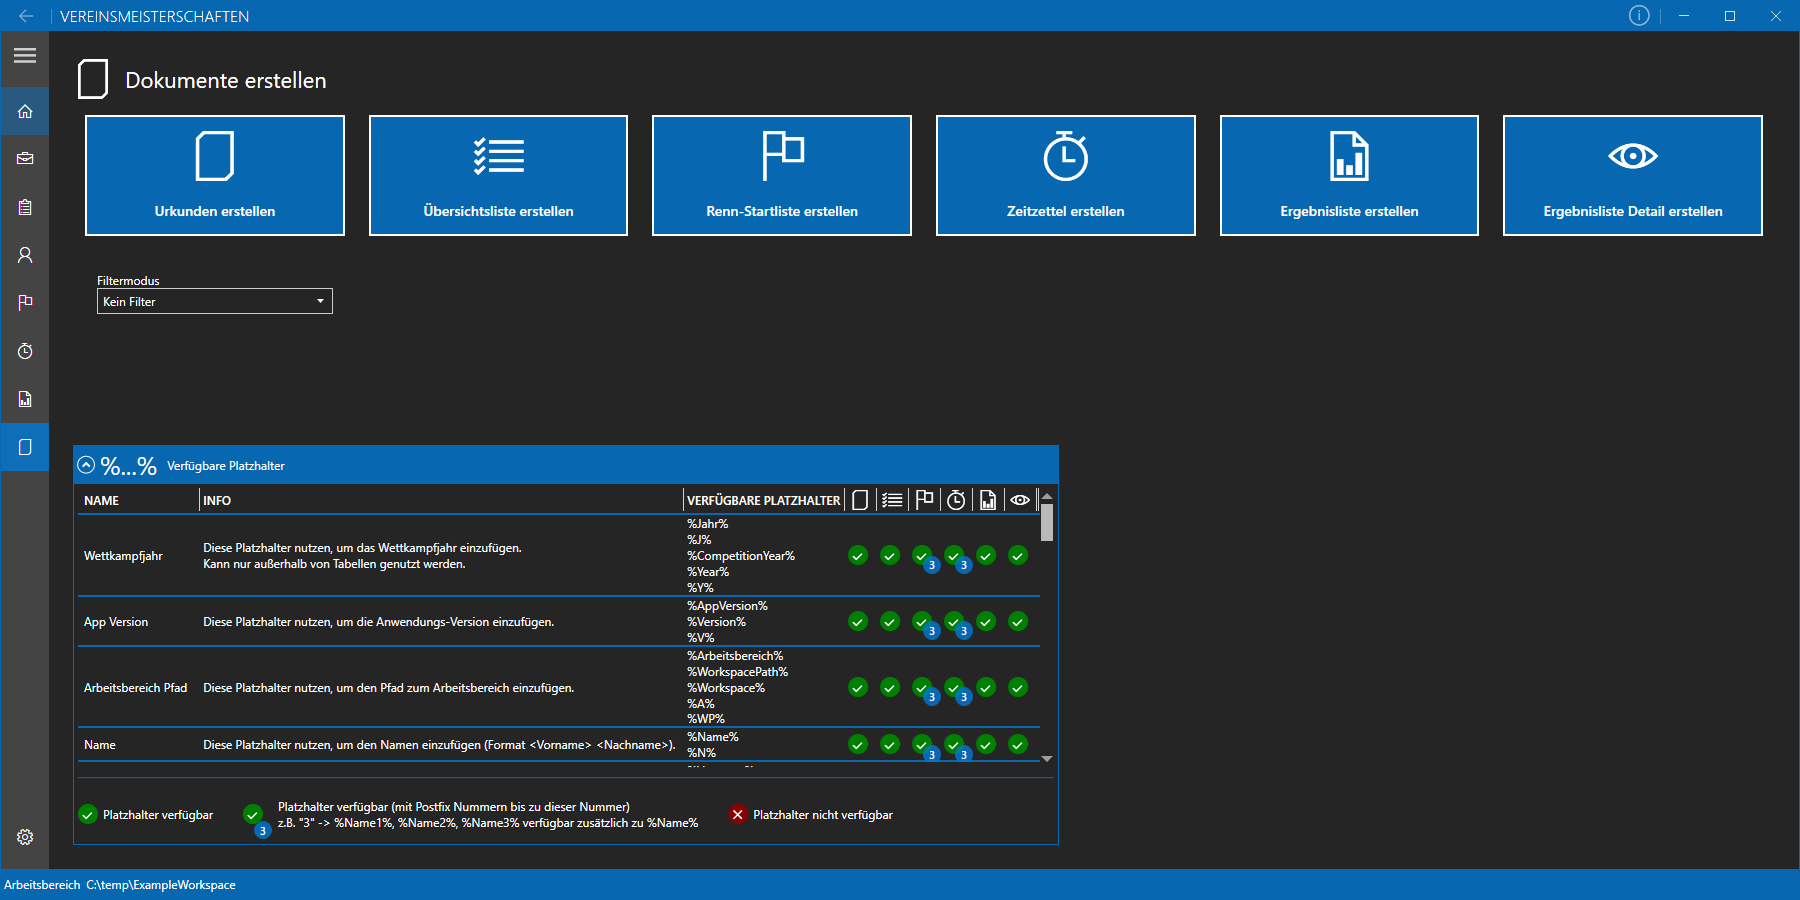
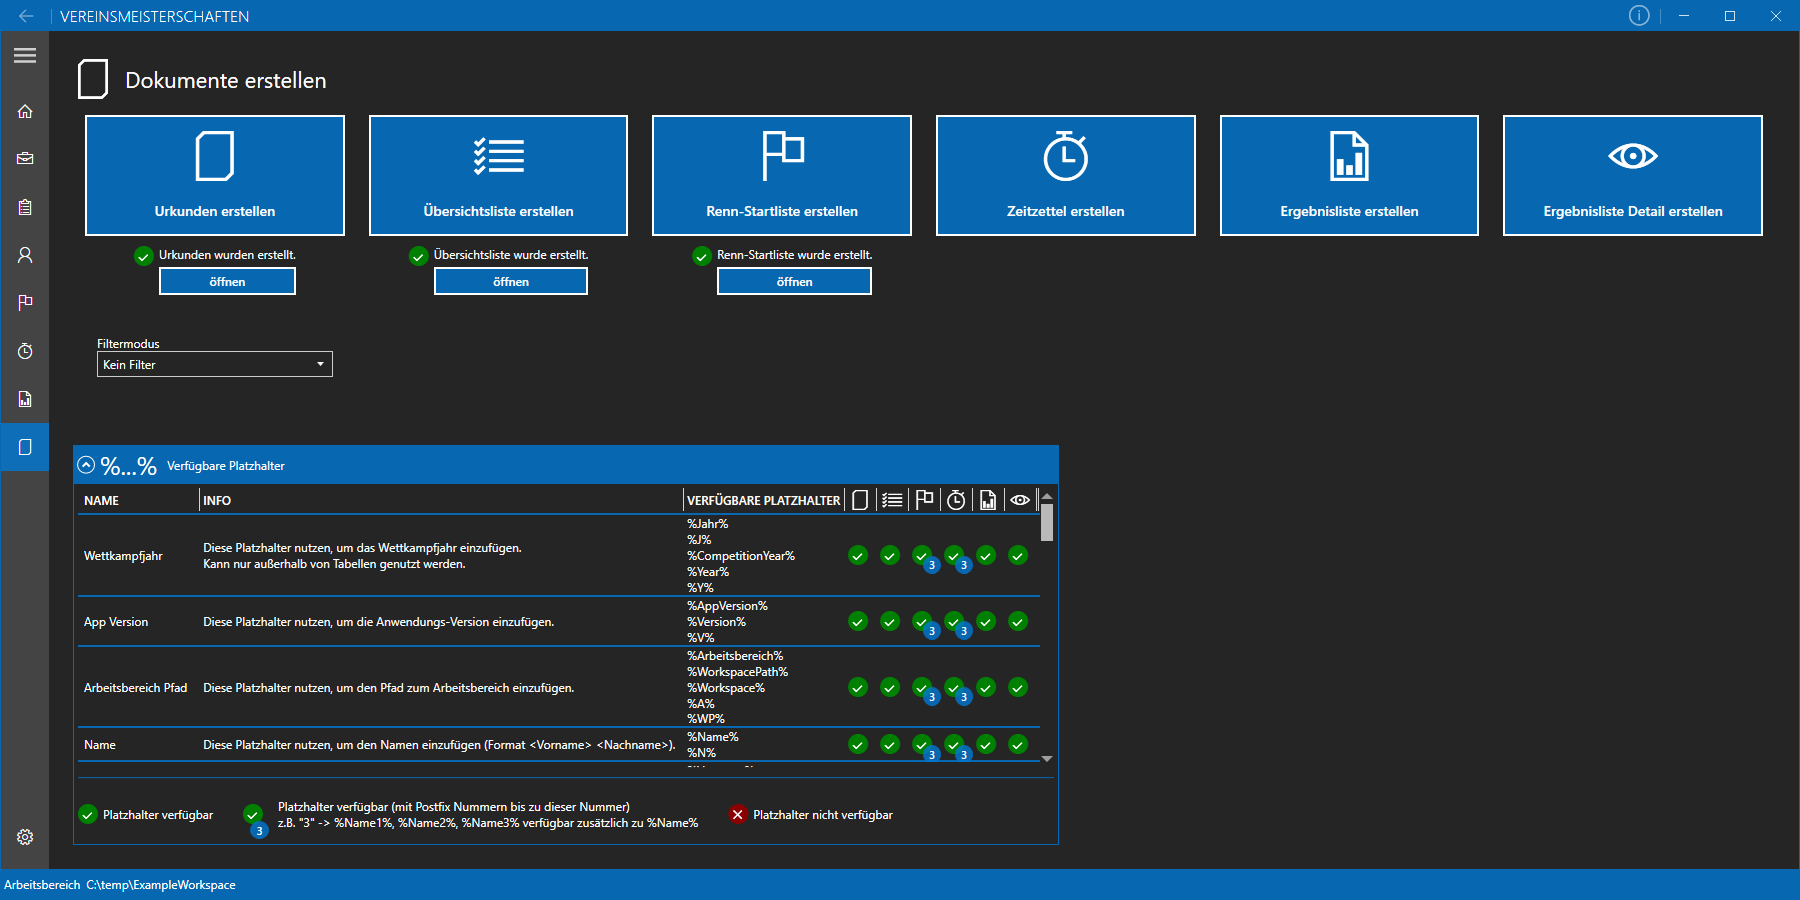
Added button to CreateDocumentsPage to open the last created document in the default application

diff --git a/Vereinsmeisterschaften/Views/CreateDocumentsPage.xaml b/Vereinsmeisterschaften/Views/CreateDocumentsPage.xaml
@@ -59,6 +59,7 @@
                                          IsSuccessful="{Binding IsDocumentCreationSuccessful[Certificates]}"
                                          IsDataAvailable="{Binding IsDocumentDataAvailable[Certificates]}"
                                          IsTemplateAvailable="{Binding IsDocumentTemplateAvailable[Certificates]}"
+                                         LastCreatedDocumentPath="{Binding LastDocumentFilePaths[Certificates]}"
                                          ButtonText="{x:Static properties:Resources.CreateCertificatesString}"
                                          SuccessText="{x:Static properties:Resources.CreateCertificatesResultString}"
                                          ButtonIconGlyph="&#xE8A5;"
@@ -131,6 +132,7 @@
                                          IsSuccessful="{Binding IsDocumentCreationSuccessful[OverviewList]}"
                                          IsDataAvailable="{Binding IsDocumentDataAvailable[OverviewList]}"
                                          IsTemplateAvailable="{Binding IsDocumentTemplateAvailable[OverviewList]}"
+                                         LastCreatedDocumentPath="{Binding LastDocumentFilePaths[OverviewList]}"
                                          ButtonText="{x:Static properties:Resources.CreateOverviewListString}"
                                          SuccessText="{x:Static properties:Resources.CreateOverviewListResultString}"
                                          ButtonIconGlyph="&#xE9D5;"
@@ -145,6 +147,7 @@
                                          IsSuccessful="{Binding IsDocumentCreationSuccessful[RaceStartList]}"
                                          IsDataAvailable="{Binding IsDocumentDataAvailable[RaceStartList]}"
                                          IsTemplateAvailable="{Binding IsDocumentTemplateAvailable[RaceStartList]}"
+                                         LastCreatedDocumentPath="{Binding LastDocumentFilePaths[RaceStartList]}"
                                          ButtonText="{x:Static properties:Resources.CreateRaceStartListString}"
                                          SuccessText="{x:Static properties:Resources.CreateRaceStartListResultString}"
                                          ButtonIconGlyph="&#xE7C1;"
@@ -159,6 +162,7 @@
                                  IsSuccessful="{Binding IsDocumentCreationSuccessful[TimeForms]}"
                                  IsDataAvailable="{Binding IsDocumentDataAvailable[TimeForms]}"
                                  IsTemplateAvailable="{Binding IsDocumentTemplateAvailable[TimeForms]}"
+                                 LastCreatedDocumentPath="{Binding LastDocumentFilePaths[TimeForms]}"
                                  ButtonText="{x:Static properties:Resources.CreateTimeFormsString}"
                                  SuccessText="{x:Static properties:Resources.CreateTimeFormsResultString}"
                                  ButtonIconGlyph="&#xE916;"
@@ -173,6 +177,7 @@
                                          IsSuccessful="{Binding IsDocumentCreationSuccessful[ResultList]}"
                                          IsDataAvailable="{Binding IsDocumentDataAvailable[ResultList]}"
                                          IsTemplateAvailable="{Binding IsDocumentTemplateAvailable[ResultList]}"
+                                         LastCreatedDocumentPath="{Binding LastDocumentFilePaths[ResultList]}"
                                          ButtonText="{x:Static properties:Resources.CreateResultListString}"
                                          SuccessText="{x:Static properties:Resources.CreateResultListResultString}"
                                          ButtonIconGlyph="&#xE9F9;"
@@ -187,6 +192,7 @@
                                         IsSuccessful="{Binding IsDocumentCreationSuccessful[ResultListDetail]}"
                                         IsDataAvailable="{Binding IsDocumentDataAvailable[ResultListDetail]}"
                                         IsTemplateAvailable="{Binding IsDocumentTemplateAvailable[ResultListDetail]}"
+                                        LastCreatedDocumentPath="{Binding LastDocumentFilePaths[ResultListDetail]}"
                                         ButtonText="{x:Static properties:Resources.CreateResultListDetailString}"
                                         SuccessText="{x:Static properties:Resources.CreateResultListDetailResultString}"
                                         ButtonIconGlyph="&#xE7B3;"

diff --git a/Vereinsmeisterschaften/Views/CreateDocumentUserControl.xaml b/Vereinsmeisterschaften/Views/CreateDocumentUserControl.xaml
@@ -57,7 +57,7 @@
                     </Style.Triggers>
                 </Style>
             </StackPanel.Style>
-            <ContentControl Template="{StaticResource ControlTemplateOkIndicator}"/>
+            <ContentControl Template="{StaticResource ControlTemplateOkIndicator}" VerticalAlignment="Top"/>
             <StackPanel Margin="5,0,0,0"
                         Orientation="Vertical">
                 <TextBlock VerticalAlignment="Center"
@@ -76,6 +76,7 @@
                         </Style>
                     </TextBlock.Style>
                 </TextBlock>
+                <Button x:Name="btn_openDocument" Margin="0,5" Content="{x:Static properties:Resources.OpenString}" Style="{StaticResource MahApps.Styles.Button.Square.Accent}" Click="btn_openDocument_Click" ToolTip="{x:Static properties:Tooltips.TooltipOpenDocument}"/>
             </StackPanel>
         </StackPanel>
 

diff --git a/Vereinsmeisterschaften/ViewModels/CreateDocumentsViewModel.cs b/Vereinsmeisterschaften/ViewModels/CreateDocumentsViewModel.cs
@@ -9,6 +9,10 @@ using Vereinsmeisterschaften.Core.Contracts.Services;
 using Vereinsmeisterschaften.Core.Models;
 using Vereinsmeisterschaften.Core.Documents;
 using Vereinsmeisterschaften.Properties;
+using Vereinsmeisterschaften.Core.Settings;
+using System.IO;
+using Vereinsmeisterschaften.Core.Helpers;
+using Vereinsmeisterschaften.Core.Services;
 
 namespace Vereinsmeisterschaften.ViewModels;
 
@@ -36,6 +40,11 @@ public class CreateDocumentsViewModel : ObservableObject, INavigationAware
     /// Dictionary to hold the state of whether the template file is available for document creation for each <see cref="DocumentCreationTypes"/> type.
     /// </summary>
     public Dictionary<DocumentCreationTypes, bool> IsDocumentTemplateAvailable { get; } = new Dictionary<DocumentCreationTypes, bool>();
+
+    /// <summary>
+    /// Dictionary to hold the file paths of the last created documents for each <see cref="DocumentCreationTypes"/> type.
+    /// </summary>
+    public Dictionary<DocumentCreationTypes, string> LastDocumentFilePaths { get; } = new Dictionary<DocumentCreationTypes, string>();
 
     private void changeDocumentCreationRunningState(DocumentCreationTypes documentType, bool isRunning)
     {
@@ -77,6 +86,16 @@ public class CreateDocumentsViewModel : ObservableObject, INavigationAware
         }
     }
 
+    private void changeLastDocumentFilePath(DocumentCreationTypes documentType, string lastDocumentFilePaths)
+    {
+        if (LastDocumentFilePaths.ContainsKey(documentType))
+        {
+            LastDocumentFilePaths[documentType] = lastDocumentFilePaths;
+            OnPropertyChanged(nameof(LastDocumentFilePaths));
+            ((RelayCommand<DocumentCreationTypes>)CreateDocumentCommand).NotifyCanExecuteChanged();
+        }
+    }
+
     /// <summary>
     /// Indicates whether at leas one document creation process is currently running (either certificates or overview list or race start list).
     /// </summary>
@@ -86,7 +105,7 @@ public class CreateDocumentsViewModel : ObservableObject, INavigationAware
 
     #region Create Certificates Properties
 
-    private int _numberCreatedCertificates = 0;
+    private int _numberCreatedCertificates = -1;
     /// <summary>
     /// Number of created certificates during the last creation process.
     /// </summary>
@@ -161,7 +180,7 @@ public class CreateDocumentsViewModel : ObservableObject, INavigationAware
 
     #region Create Time Forms Properties
 
-    private int _numberCreatedTimeForms = 0;
+    private int _numberCreatedTimeForms = -1;
     /// <summary>
     /// Number of created time forms during the last creation process.
     /// </summary>
@@ -243,6 +262,7 @@ public class CreateDocumentsViewModel : ObservableObject, INavigationAware
 
     private IDocumentService _documentService;
     private IPersonService _personService;
+    private IWorkspaceService _workspaceService;
     private IDialogCoordinator _dialogCoordinator;
     private IEnumerable<IDocumentStrategy> _documentStrategies;
 
@@ -251,12 +271,14 @@ public class CreateDocumentsViewModel : ObservableObject, INavigationAware
     /// </summary>
     /// <param name="documentService"><see cref="IDocumentService"/> object</param>
     /// <param name="personService"><see cref="IPersonService"/> object</param>
+    /// <param name="workspaceService"><see cref="IWorkspaceService"/> object</param>
     /// <param name="dialogCoordinator"><see cref="IDialogCoordinator"/> object</param>
     /// <param name="documentStrategies">List with <see cref="IDocumentStrategy"/> objects</param>
-    public CreateDocumentsViewModel(IDocumentService documentService, IPersonService personService, IDialogCoordinator dialogCoordinator, IEnumerable<IDocumentStrategy> documentStrategies)
+    public CreateDocumentsViewModel(IDocumentService documentService, IPersonService personService, IWorkspaceService workspaceService, IDialogCoordinator dialogCoordinator, IEnumerable<IDocumentStrategy> documentStrategies)
     {
         _documentService = documentService;
         _personService = personService;
+        _workspaceService = workspaceService;
         _dialogCoordinator = dialogCoordinator;
         _documentStrategies = documentStrategies;
 
@@ -265,12 +287,14 @@ public class CreateDocumentsViewModel : ObservableObject, INavigationAware
         IsDocumentCreationSuccessful.Clear();
         IsDocumentDataAvailable.Clear();
         IsDocumentTemplateAvailable.Clear();
+        LastDocumentFilePaths.Clear();
         foreach (DocumentCreationTypes type in availableDocumentCreationTypes)
         {
             IsDocumentCreationRunning.Add(type, false);
             IsDocumentCreationSuccessful.Add(type, false);
             IsDocumentDataAvailable.Add(type, false);
             IsDocumentTemplateAvailable.Add(type, false);
+            LastDocumentFilePaths.Add(type, string.Empty);
         }
     }
 
@@ -282,6 +306,9 @@ public class CreateDocumentsViewModel : ObservableObject, INavigationAware
     /// </summary>
     public ICommand CreateDocumentCommand => _createDocumentCommand ?? (_createDocumentCommand = new RelayCommand<DocumentCreationTypes>(async (documentType) =>
     {
+        int numCreatedPages = 0;
+        string returnFilePath = string.Empty;
+
         changeDocumentCreationRunningState(documentType, true);
         try
         {
@@ -301,36 +328,39 @@ public class CreateDocumentsViewModel : ObservableObject, INavigationAware
                         }
 
                         _documentService.SetCertificateCreationFilters(PersonStartFilter, filterParam);
-                        NumberCreatedCertificates = await _documentService.CreateDocument(DocumentCreationTypes.Certificates);
+                        (numCreatedPages, returnFilePath) = await _documentService.CreateDocument(DocumentCreationTypes.Certificates);
+                        NumberCreatedCertificates = numCreatedPages;
                         break;
                     }
                 case DocumentCreationTypes.OverviewList:
                     {
-                        await _documentService.CreateDocument(DocumentCreationTypes.OverviewList);
+                        (numCreatedPages, returnFilePath) = await _documentService.CreateDocument(DocumentCreationTypes.OverviewList);
                         break;
                     }
                 case DocumentCreationTypes.RaceStartList:
                     {
-                        await _documentService.CreateDocument(DocumentCreationTypes.RaceStartList);
+                        (numCreatedPages, returnFilePath) = await _documentService.CreateDocument(DocumentCreationTypes.RaceStartList);
                         break;
                     }
                 case DocumentCreationTypes.TimeForms:
                     {
-                        NumberCreatedTimeForms = await _documentService.CreateDocument(DocumentCreationTypes.TimeForms);
+                        (numCreatedPages, returnFilePath) = await _documentService.CreateDocument(DocumentCreationTypes.TimeForms);
+                        NumberCreatedTimeForms = numCreatedPages;
                         break;
                     }
                 case DocumentCreationTypes.ResultList:
                     {
-                        await _documentService.CreateDocument(DocumentCreationTypes.ResultList);
+                        (numCreatedPages, returnFilePath) = await _documentService.CreateDocument(DocumentCreationTypes.ResultList);
                         break;
                     }
                 case DocumentCreationTypes.ResultListDetail:
                     {
-                        await _documentService.CreateDocument(DocumentCreationTypes.ResultListDetail);
+                        (numCreatedPages, returnFilePath) = await _documentService.CreateDocument(DocumentCreationTypes.ResultListDetail);
                         break;
                     }
                 default: throw new ArgumentOutOfRangeException(nameof(documentType), documentType, "Unknown document type for creation command.");
             }
+            changeLastDocumentFilePath(documentType, returnFilePath);
             changeDocumentCreationSuccessfulState(documentType, true);
         }
         catch (Exception ex)
@@ -359,6 +389,26 @@ public class CreateDocumentsViewModel : ObservableObject, INavigationAware
             {
                 changeDocumentCreationRunningState(strategy.DocumentType, false);
                 changeDocumentCreationSuccessfulState(strategy.DocumentType, false);
+            }
+
+            // Find existing documents
+            string templateFileNamePostfix = _workspaceService?.Settings?.GetSettingValue<string>(WorkspaceSettings.GROUP_DOCUMENT_CREATION, WorkspaceSettings.SETTING_DOCUMENT_CREATION_TEMPLATE_FILENAME_POSTFIX) ?? string.Empty;
+            string documentOutputFolder = _workspaceService?.Settings?.GetSettingValue<string>(WorkspaceSettings.GROUP_DOCUMENT_CREATION, WorkspaceSettings.SETTING_DOCUMENT_CREATION_OUTPUT_FOLDER) ?? string.Empty;
+            documentOutputFolder = FilePathHelper.MakePathAbsolute(documentOutputFolder, _workspaceService?.PersistentPath);
+
+            string outputFileNameDocx = Path.GetFileNameWithoutExtension(strategy.TemplatePath);
+            outputFileNameDocx = outputFileNameDocx.Replace(templateFileNamePostfix, "") + ".docx";
+            string outputFilePathDocx = Path.Combine(documentOutputFolder, outputFileNameDocx);
+            string outputFilePathPdf = outputFilePathDocx.Replace(".docx", ".pdf", StringComparison.InvariantCultureIgnoreCase);
+            if(File.Exists(outputFilePathPdf))
+            {
+                changeLastDocumentFilePath(strategy.DocumentType, outputFilePathPdf);
+                changeDocumentCreationSuccessfulState(strategy.DocumentType, true);     // necessary to show the path
+            }
+            else if(File.Exists(outputFilePathDocx))
+            {
+                changeLastDocumentFilePath(strategy.DocumentType, outputFilePathDocx);
+                changeDocumentCreationSuccessfulState(strategy.DocumentType, true);     // necessary to show the path
             }
         }
 

diff --git a/Vereinsmeisterschaften.Core/Services/DocumentService.cs b/Vereinsmeisterschaften.Core/Services/DocumentService.cs
@@ -63,8 +63,8 @@ namespace Vereinsmeisterschaften.Core.Services
         /// </summary>
         /// <param name="documentType"><see cref="DocumentCreationTypes"/> used to decide which document type and <see cref="IDocumentStrategy"/> is used</param>
         /// <param name="createPdf">True to also create a .pdf file</param>
-        /// <returns><see cref="Task"/> that can be used to run this async</returns>
-        public Task<int> CreateDocument(DocumentCreationTypes documentType, bool createPdf = true)
+        /// <returns><see cref="Task"/> that can be used to run this async. The return parameter is a tuple of (number of created pages in the document, filepath to the last created document (PDF if possible))</returns>
+        public Task<(int, string)> CreateDocument(DocumentCreationTypes documentType, bool createPdf = true)
         {
             return Task.Run(() =>
             {
@@ -211,10 +211,12 @@ namespace Vereinsmeisterschaften.Core.Services
 
                 DocumentCreationFileTypes fileTypes = _workspaceService?.Settings?.GetSettingValue<DocumentCreationFileTypes>(WorkspaceSettings.GROUP_DOCUMENT_CREATION, WorkspaceSettings.SETTING_DOCUMENT_CREATION_FILE_TYPES) ?? DocumentCreationFileTypes.DOCX_AND_PDF;
 
+                string returnFilePath = outputFile;
+
                 // Create PDF if requested and file type is PDF or DOCX_AND_PDF
                 if (createPdf && (fileTypes == DocumentCreationFileTypes.PDF || fileTypes == DocumentCreationFileTypes.DOCX_AND_PDF))
                 {
-                    convertToPdf(outputFile);
+                    returnFilePath = convertToPdf(outputFile);
                 }
 
                 // Delete the .docx file if file type is PDF
@@ -226,7 +228,7 @@ namespace Vereinsmeisterschaften.Core.Services
                     }
                 }
 
-                return numCreatedPages;
+                return (numCreatedPages, returnFilePath);
             });
         }
 
@@ -272,7 +274,8 @@ namespace Vereinsmeisterschaften.Core.Services
         /// Convert a .docx file to a .pdf file using LibreOffice.
         /// </summary>
         /// <param name="docxFile">.docx file to convert. The same name with the extension .pdf instead of .docx is used.</param>
-        private void convertToPdf(string docxFile)
+        /// <returns>.pdf file path</returns>
+        private string convertToPdf(string docxFile)
         {
             // Convert the docx file to pdf
             string outputFilePdf = docxFile.Replace(".docx", ".pdf");
@@ -280,6 +283,7 @@ namespace Vereinsmeisterschaften.Core.Services
 
             string libreOfficePath = _workspaceService?.Settings?.GetSettingValue<string>(WorkspaceSettings.GROUP_DOCUMENT_CREATION, WorkspaceSettings.SETTING_DOCUMENT_CREATION_LIBRE_OFFICE_PATH) ?? string.Empty;
             LibreOfficeDocumentConverter.Convert(docxFile, outputFilePdf, libreOfficePath);
+            return outputFilePdf;
         }
 
         #endregion

diff --git a/Vereinsmeisterschaften/Views/CreateDocumentUserControl.xaml.cs b/Vereinsmeisterschaften/Views/CreateDocumentUserControl.xaml.cs
@@ -126,5 +126,24 @@ namespace Vereinsmeisterschaften.Views
             set => SetValue(NumberCreatedDocumentsProperty, value);
         }
         public static readonly DependencyProperty NumberCreatedDocumentsProperty = DependencyProperty.Register(nameof(NumberCreatedDocuments), typeof(int), typeof(CreateDocumentUserControl));
+
+        /// <summary>
+        /// Path to the last created document. If <see cref="string.Empty"/>, no document was created.
+        /// Only shown when <see cref="IsSuccessful"/> is <see langword="true"/>
+        /// </summary>
+        public string LastCreatedDocumentPath
+        {
+            get => (string)GetValue(LastCreatedDocumentPathProperty);
+            set => SetValue(LastCreatedDocumentPathProperty, value);
+        }
+        public static readonly DependencyProperty LastCreatedDocumentPathProperty = DependencyProperty.Register(nameof(LastCreatedDocumentPath), typeof(string), typeof(CreateDocumentUserControl));
+
+        private void btn_openDocument_Click(object sender, RoutedEventArgs e)
+        {
+            if(System.IO.File.Exists(LastCreatedDocumentPath))
+            {
+                Core.Helpers.FilePathHelper.OpenWithDefaultProgram(LastCreatedDocumentPath);
+            }
+        }
     }
 }

diff --git a/Vereinsmeisterschaften.Core/Helpers/FilePathHelper.cs b/Vereinsmeisterschaften.Core/Helpers/FilePathHelper.cs
@@ -1,4 +1,6 @@
-namespace Vereinsmeisterschaften.Core.Helpers
+using System.Diagnostics;
+
+namespace Vereinsmeisterschaften.Core.Helpers
 {
     /// <summary>
     /// Class containing helper methods for file and folder paths.
@@ -85,6 +87,21 @@
 
             // if has extension then its a file; directory otherwise
             return string.IsNullOrWhiteSpace(Path.GetExtension(path));
+        }
+
+        /// <summary>
+        /// Open the file with the default application.
+        /// </summary>
+        /// <param name="path">Path to the file to open</param>
+        /// <see cref="https://stackoverflow.com/questions/11365984/c-sharp-open-file-with-default-application-and-parameters"/>
+        public static void OpenWithDefaultProgram(string path)
+        {
+            using (Process fileopener = new Process())
+            {
+                fileopener.StartInfo.FileName = "explorer";
+                fileopener.StartInfo.Arguments = "\"" + path + "\"";
+                fileopener.Start();
+            }
         }
     }
 }

diff --git a/Vereinsmeisterschaften.Core/Contracts/Services/IDocumentService.cs b/Vereinsmeisterschaften.Core/Contracts/Services/IDocumentService.cs
@@ -22,8 +22,8 @@ namespace Vereinsmeisterschaften.Core.Contracts.Services
         /// </summary>
         /// <param name="documentType"><see cref="DocumentCreationTypes"/> used to decide which document type and <see cref="IDocumentStrategy"/> is used</param>
         /// <param name="createPdf">True to also create a .pdf file</param>
-        /// <returns><see cref="Task"/> that can be used to run this async</returns>
-        Task<int> CreateDocument(DocumentCreationTypes documentType, bool createPdf = true);
+        /// <returns><see cref="Task"/> that can be used to run this async. The return parameter is a tuple of (number of created pages in the document, filepath to the last created document (PDF if possible))</returns>
+        Task<(int, string)> CreateDocument(DocumentCreationTypes documentType, bool createPdf = true);
 
         /// <summary>
         /// Set the filters that are used for the certificate creation.

diff --git a/Vereinsmeisterschaften/Properties/Tooltips.Designer.cs b/Vereinsmeisterschaften/Properties/Tooltips.Designer.cs
@@ -154,6 +154,15 @@ namespace Vereinsmeisterschaften.Properties {
         }
         
         /// <summary>
+        ///   Sucht eine lokalisierte Zeichenfolge, die Open document in default application. Open .pdf if available, otherwise use .docx. ähnelt.
+        /// </summary>
+        public static string TooltipOpenDocument {
+            get {
+                return ResourceManager.GetString("TooltipOpenDocument", resourceCulture);
+            }
+        }
+        
+        /// <summary>
         ///   Sucht eine lokalisierte Zeichenfolge, die String marker for placeholders in the template files. The placeholder must be enclosed by this marker.
         ///e.g. PlaceholderMarker = &quot;%&quot; --&gt; %PLACEHOLDER% ähnelt.
         /// </summary>
